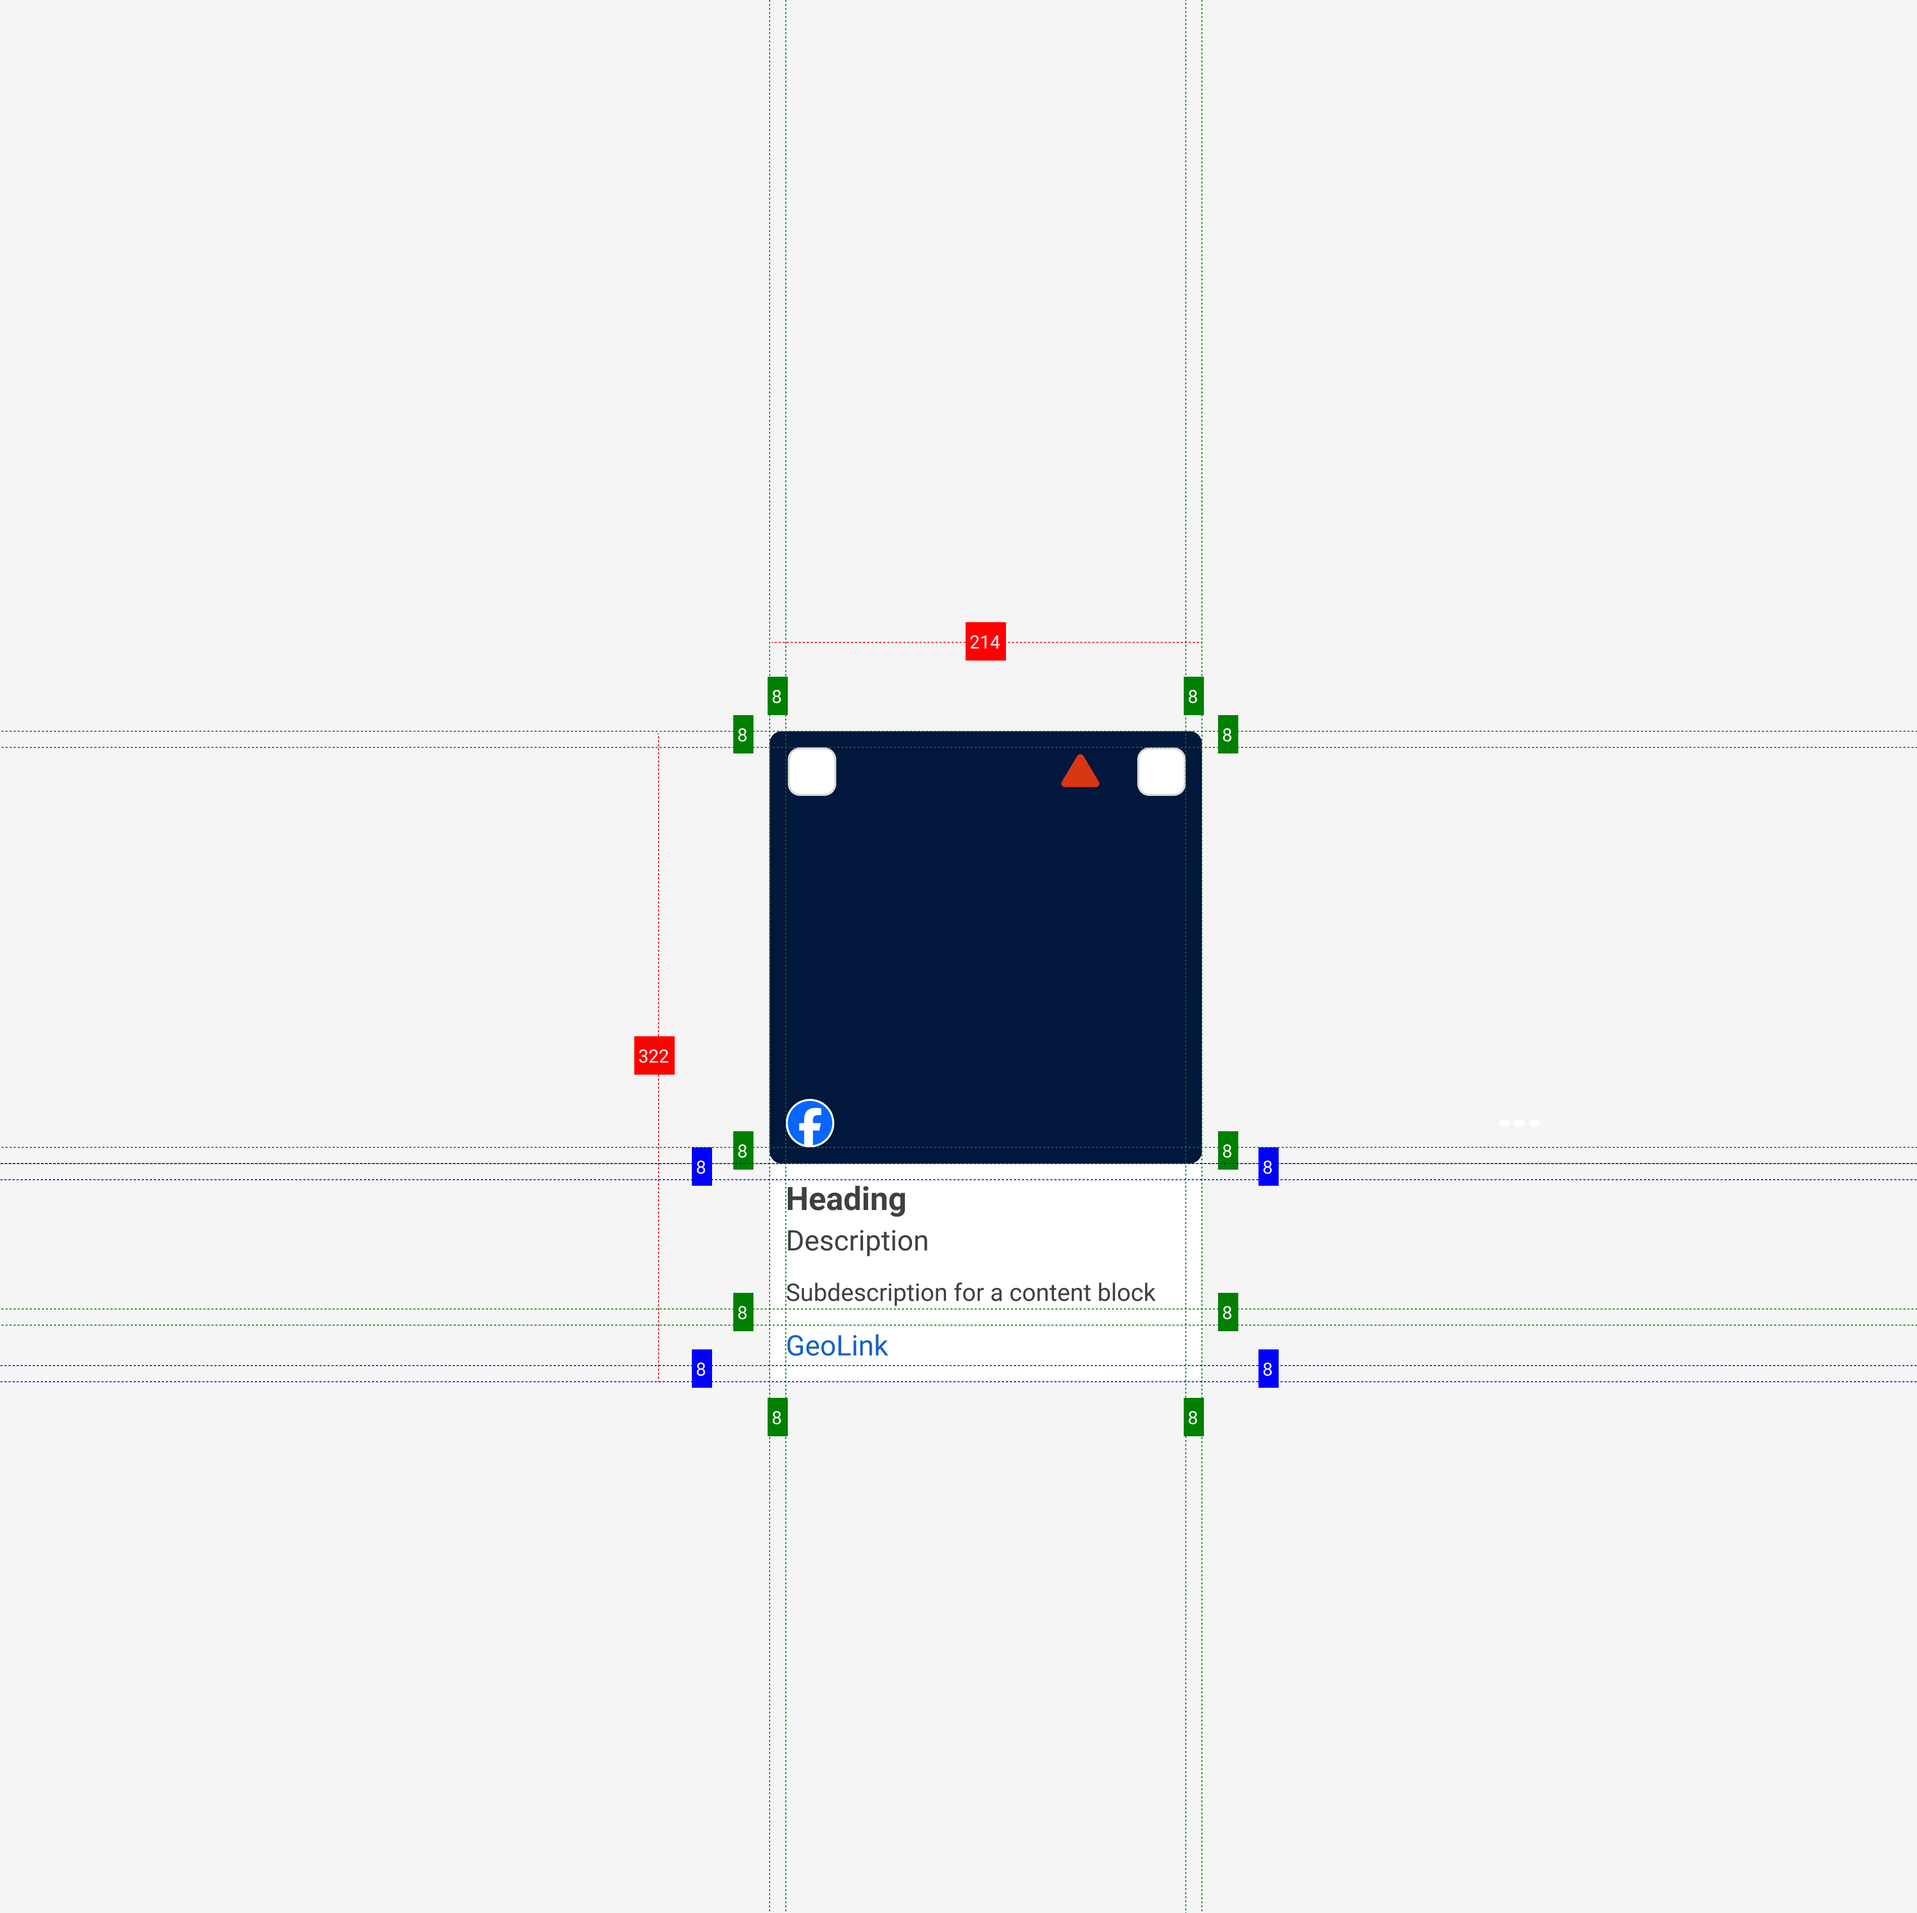
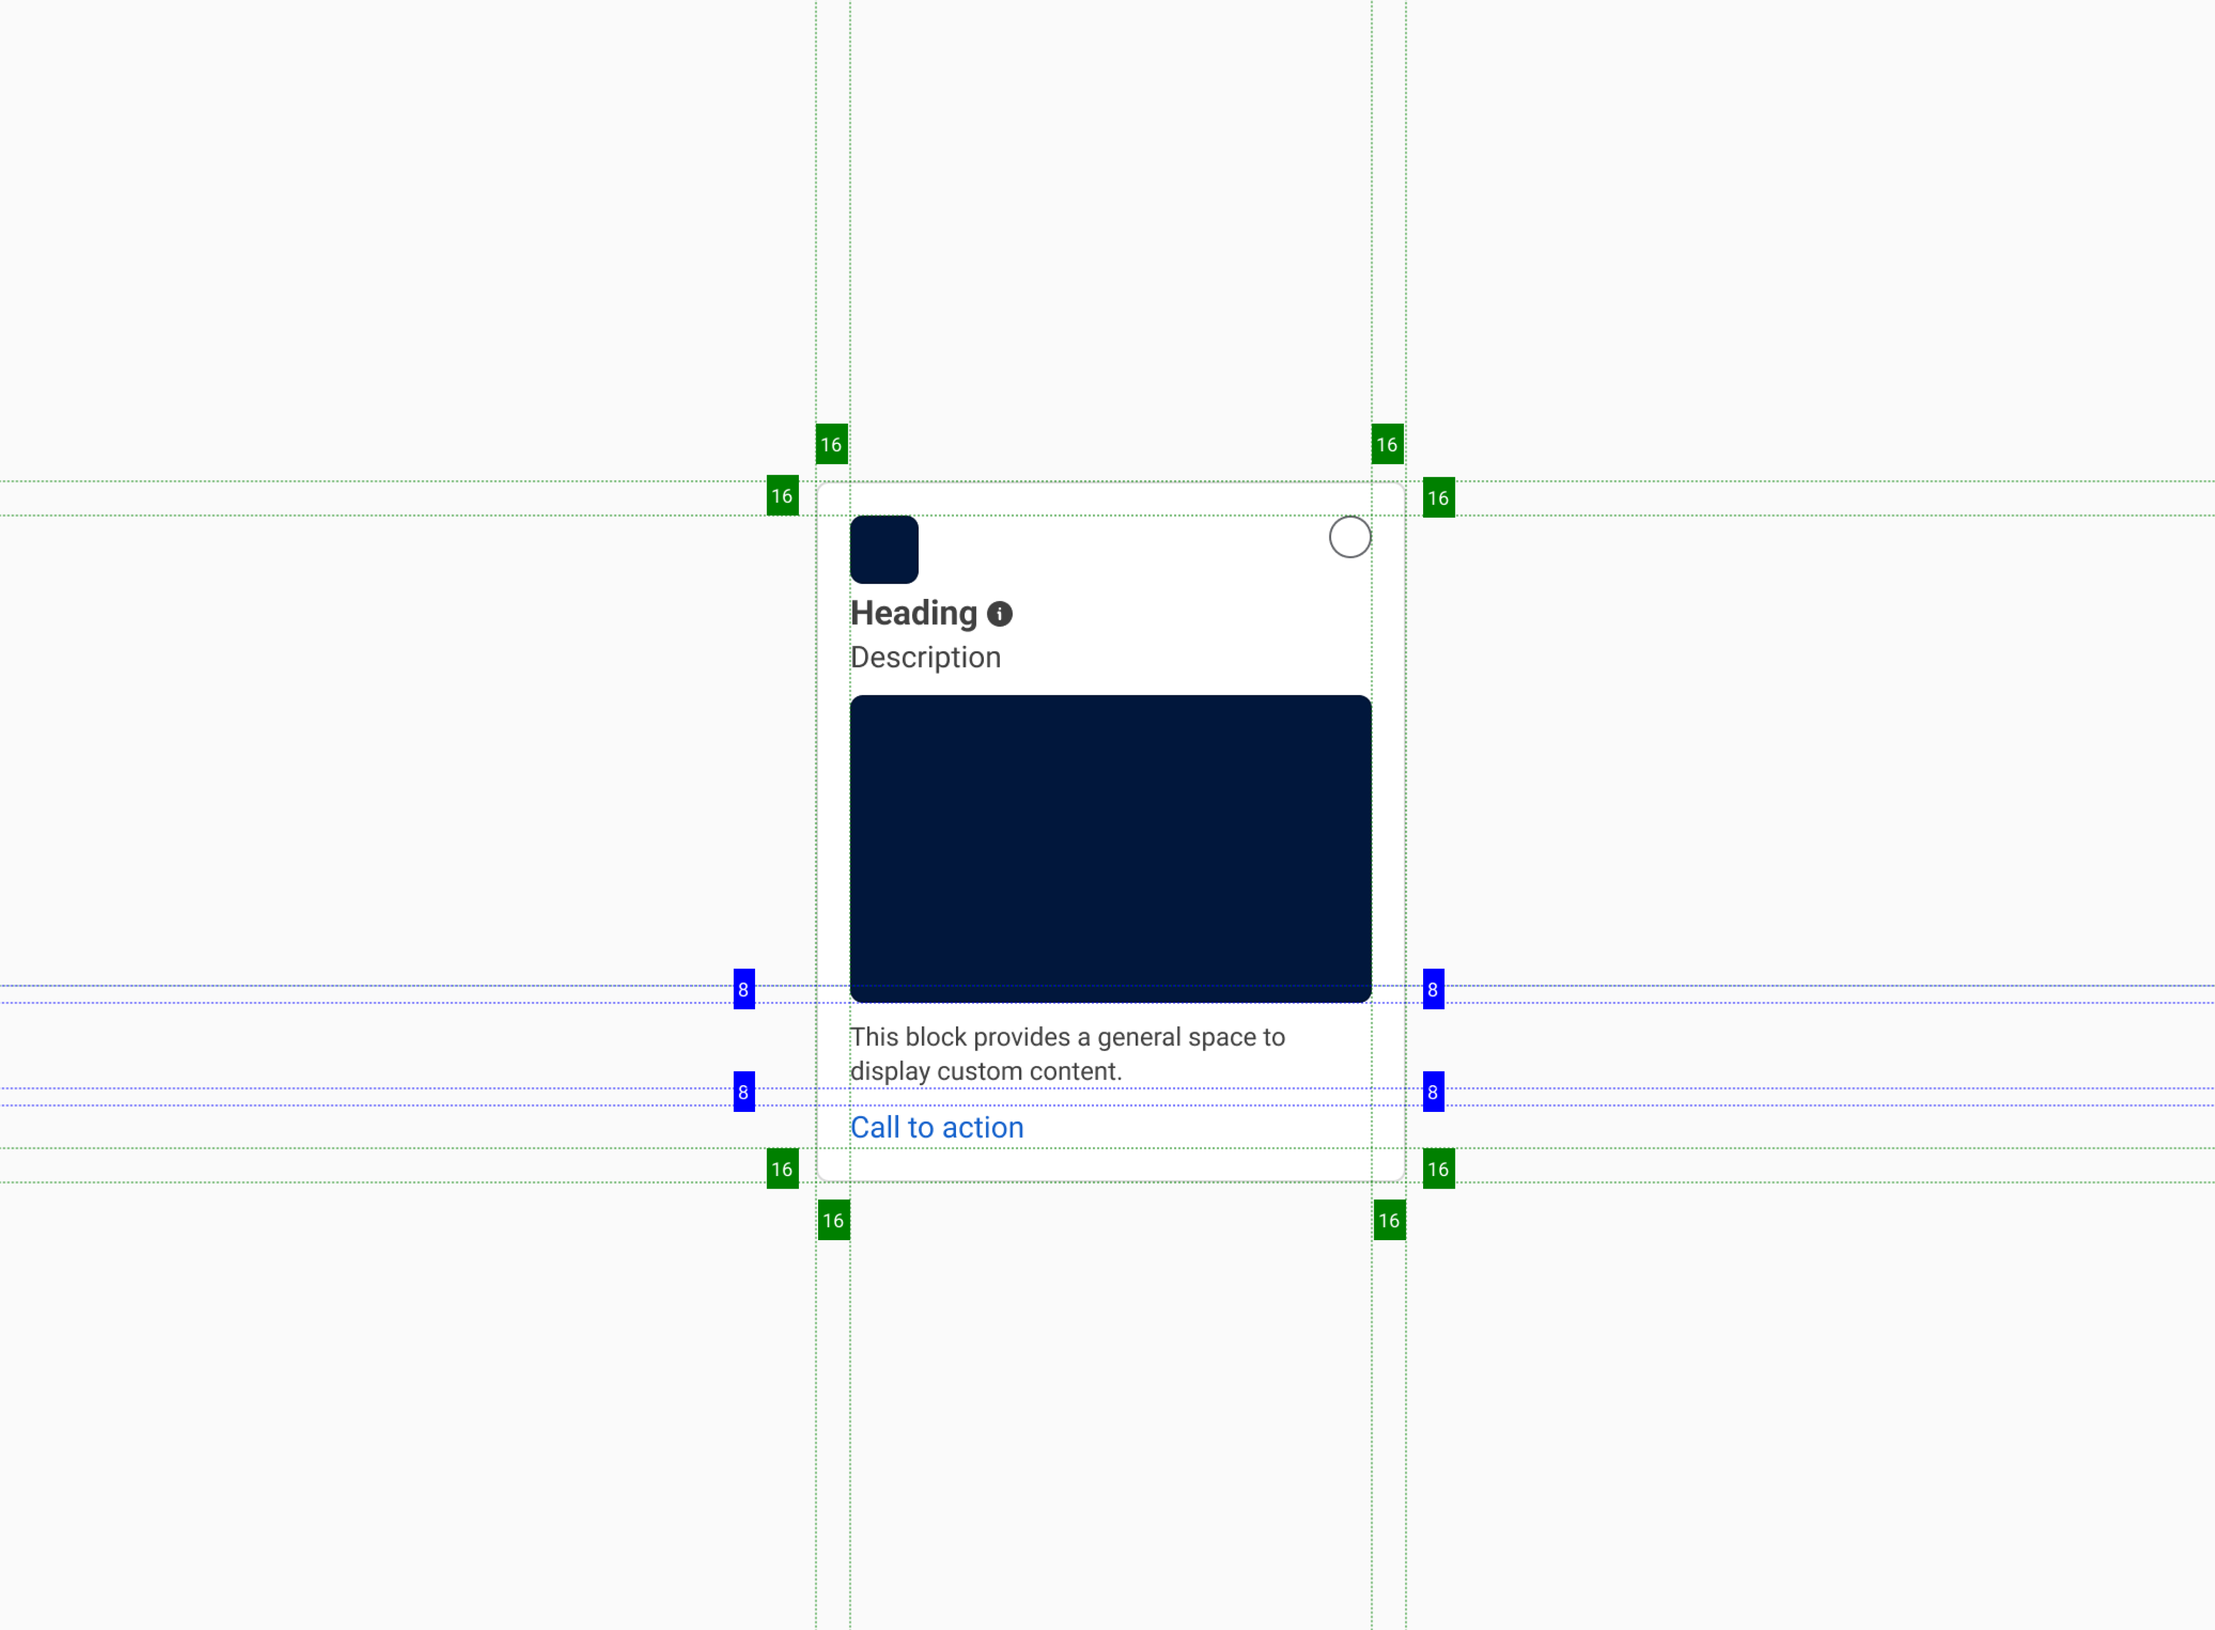
Refreshed images
Updated project images, typefaces, padding.

Changed region(s): [[0.0, 0.2478, 1.0, 0.7745]]

diff --git a/homepage.html b/homepage.html
@@ -74,14 +74,14 @@
                             just to move fast, but to build systems that keep people safe.</p>
                     </div>
                     <div class="project-media">
-                        <img src="assets/VerificationHero.png" alt="Verification of high-risk harms UI">
+                        <img src="assets/Verification.png" alt="Verification of high-risk harms UI">
                     </div>
                 </article>
 
                 <article class="project-item">
                     <div class="project-info"></div>
                     <div class="project-media">
-                        <img src="assets/Verificationcard.png" alt="Consolidated surface for requesting and tracking">
+                        <img src="assets/VerificationCenter.png" alt="Consolidated surface for requesting and tracking">
                     </div>
                 </article>
             </section>
@@ -103,6 +103,9 @@
                             inherently accounts for variable factors like long translated text and scaled font sizes,
                             ensuring that global scalability is built into the bones of the component.</p>
                     </div>
+                    <!-- <div class="project-media">
+                        <img src="assets/ImageTile.png" alt="Image biased tile">
+                    </div> -->
                     <div class="project-media">
                         <img src="assets/TileComponent.png" alt="Design systems global tile component">
                     </div>
@@ -110,8 +113,8 @@
 
                 <article class="project-item">
                     <div class="project-info"></div>
-                    <div class="project-media">
-                        <img src="assets/TileInstance.png" alt="Design systems global tile component">
+                    <div class="project-media gif">
+                        <img src="assets/TileInstance.gif" alt="Design systems global tile component">
                     </div>
                 </article>
             </section>
@@ -124,14 +127,14 @@
                         <p>I sell 12x18-inch illustration prints, where all shop profits are donated directly to
                             charity. If interested, buy via direct message.</p>
                     </div>
-                    <div class="project-media">
+                    <div class="project-media illo">
                         <img src="assets/Frank.png" alt="Illustration artwork">
                     </div>
                 </article>
 
                 <article class="project-item">
                     <div class="project-info"></div>
-                    <div class="project-media">
+                    <div class="project-media illo">
                         <img src="assets/Donald.png" alt="Illustration artwork">
                     </div>
                 </article>

diff --git a/index.css b/index.css
@@ -1,6 +1,6 @@
 /* --- 0. ROOT VARIABLES & BREAKPOINTS --- */
 :root {
-    --bg-color: #f9f9f9;
+    --bg-color: #ffffff;
     --text-main: #000000;
     --text-muted: #666666;
     --text-disabled: #8e8e93;
@@ -19,6 +19,7 @@
 
     /* Typographic Hierarchy Controls */
     --font-neuebit: 'neuebit', sans-serif;
+    --font-aeonik-regular: "'Aeonik-Regular'", sans-serif;
     --font-bio: "NeueMontreal", sans-serif;
     --font-year: "NeueMontreal", sans-serif;
 
@@ -53,6 +54,12 @@
     font-style: normal;
 }
 
+@font-face {
+    font-family: 'Aeonik-Regular';
+    src: url('assets/Aeonik-Regular.ttf') format('opentype');
+    font-weight: normal;
+    font-style: normal;
+}
 
 /* --- RESET & BASE STYLES --- */
 * {
@@ -86,7 +93,7 @@ a {
 }
 
 h1 {
-    font-family: 'neuebit', sans-serif;
+    font-family: var(--font-neuebit);
     font-size: var(--h1-font-size);
     line-height: var(--h1-line-height);
 }
@@ -273,13 +280,24 @@ h1 {
     display: flex;
     justify-content: center;
     align-items: center;
-    padding: 2rem;
+    border-radius: 4px;
 }
 
 .project-media img {
-    max-width: 75%;
+    max-width: 100%;
     height: auto;
     object-fit: contain;
+    border-radius: 4px;
+}
+
+.gif img {
+    clip-path: inset(5px 5px 5px 5px);
+}
+
+.illo img {
+    width: 45%;
+    margin-top: 2rem;
+    margin-bottom: 2rem;
 }
 
 .project-info h3 {
@@ -487,8 +505,8 @@ h1 {
 /* 4. ULTRA-WIDE MONITOR ADJUSTMENTS */
 @media (min-width: 1920px) {
     :root {
-        --site-padding: 12.5rem;
-        --container-margin: 12.5rem;
+        --site-padding: 11rem;
+        --container-margin: 11rem;
         --grid-gutters: 10rem;
         --hero-width: 65%;
         --work-grid-gap: 20rem;
@@ -498,14 +516,14 @@ h1 {
         --h2-font-size: 2.5rem;
         --h2-line-height: 3rem;
         --hero-margin: 20rem 0 15rem 0;
-        --description-font-size: 1.5rem;
-        --description-line-height: 1.5rem;
-        --project-year-font-size: 1.75rem;
+        --description-font-size: 1.25rem;
+        --description-line-height: 1.25rem;
+        --project-year-font-size: 1.25rem;
 
     }
 
     .container {
-        margin-top: 45rem;
+        margin-top: 30rem;
     }
 
     .menu-toggle {
@@ -518,7 +536,8 @@ h1 {
     }
 
     .site-footer {
-        padding:3rem;
+        padding-top: 3rem;
+        padding-bottom: 3rem;
     }
 
     .spacer {
